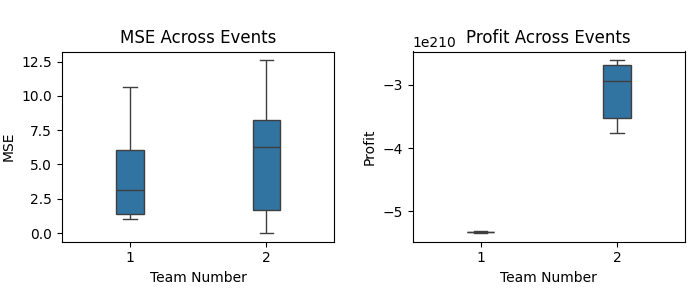
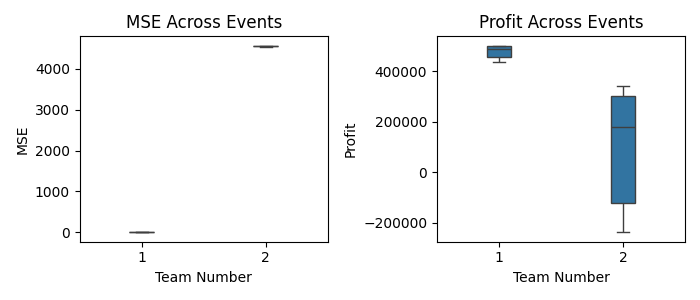
fixed minor bug, tested example solution

diff --git a/util.py b/util.py
@@ -4,8 +4,7 @@ import pandas as pd  # type: ignore
 import seaborn as sns  # type: ignore
 
 
-def get_profit(
-    wind_speed: pd.Series, prices: pd.Series, damages: pd.Series
+def get_profit(prices: pd.Series, damages: pd.Series
 ) -> pd.Series:
     assert (prices >= 0).all()
     demand = 10000 - (10000 / 500) * prices
@@ -32,7 +31,6 @@ def grade(
     # Get profit from the submission
     total_damages = damages[hour_cols].sum(axis=1)
     profits = get_profit(
-        wind_speed=wind_speed_answers["wind_speed"],
         prices=submission["price"],
         damages=total_damages,
     )
